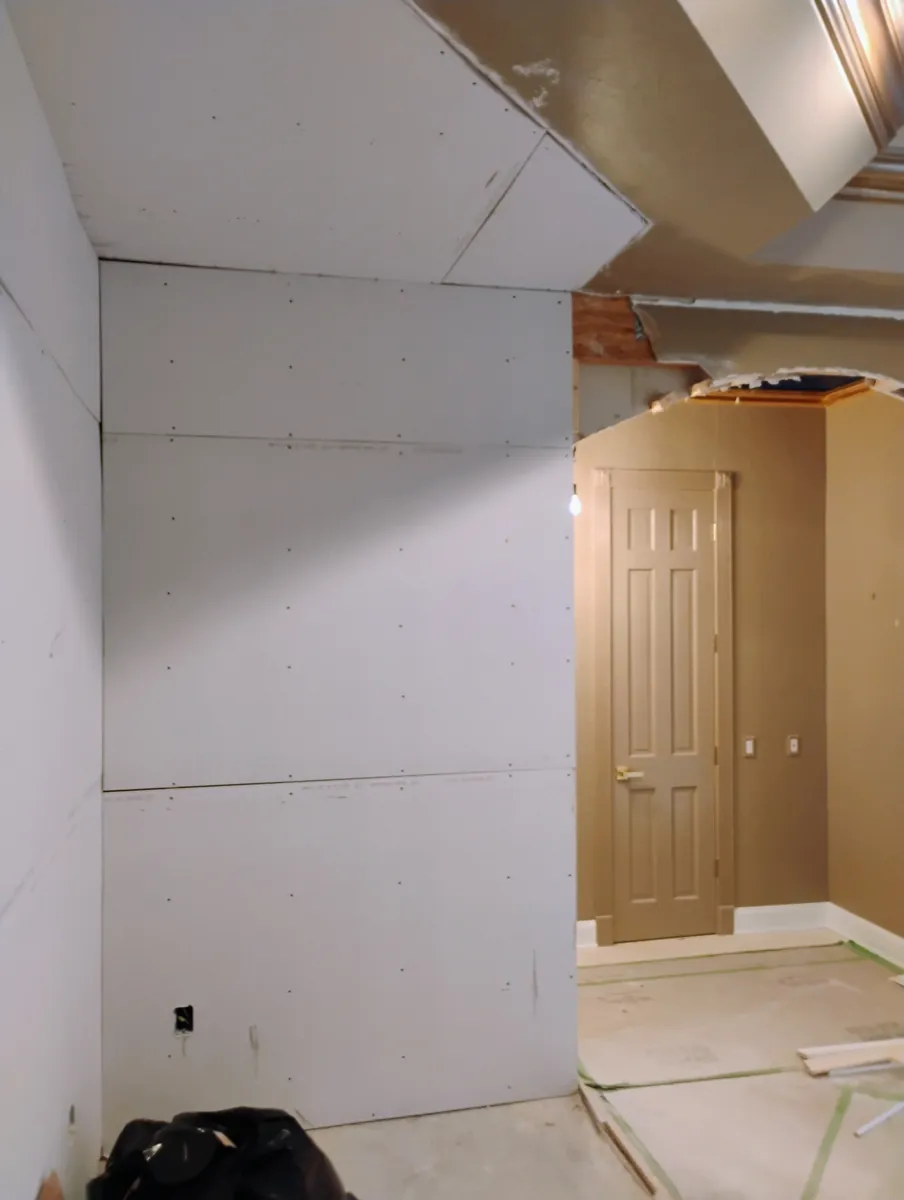
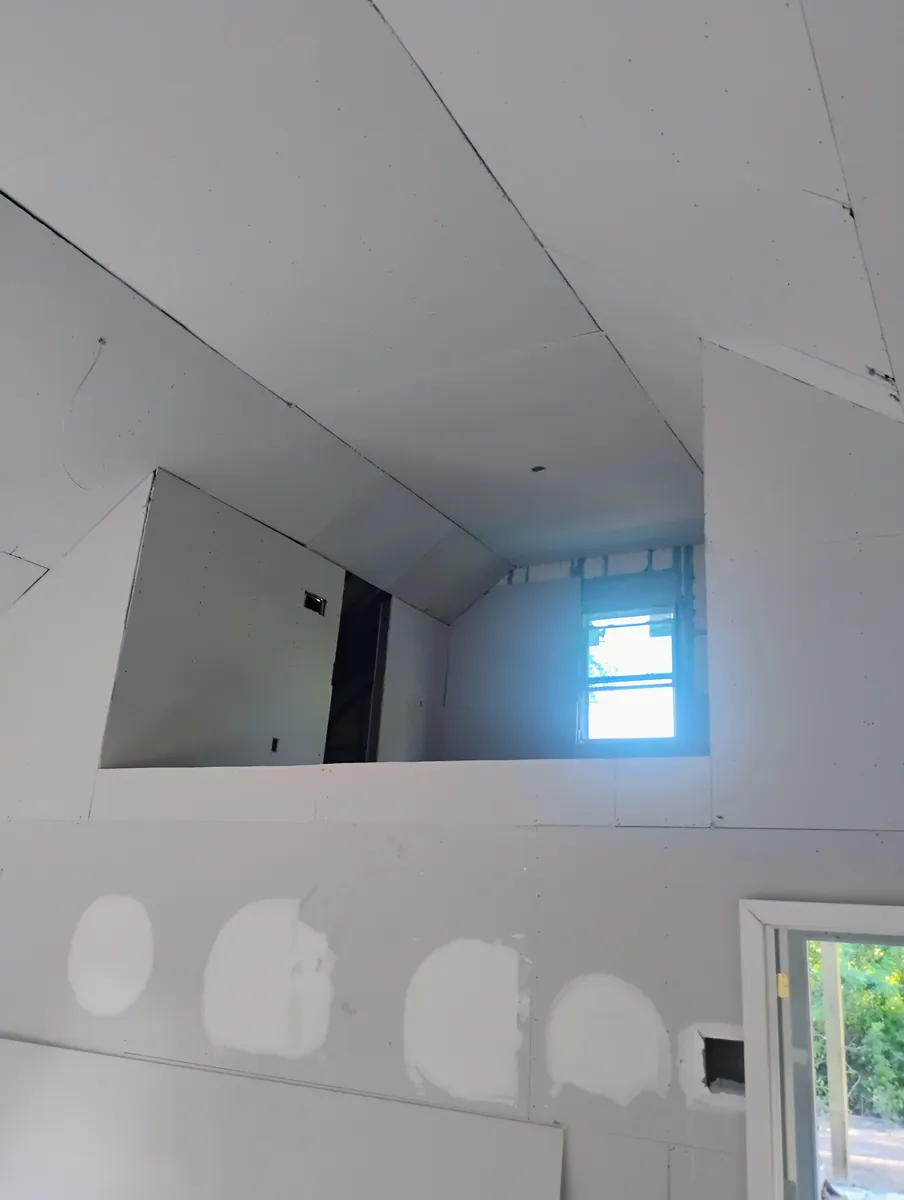
feat(photos): real drywall photos on repair + repair-painting; fix ceiling captions; update prices
Francisco review round 2:
- drywall-repair-sarasota: hero was an interior-painting hallway (wrong) ->
  real drywall repair photo + 3-photo evidence gallery. Added the real logo
  to this page too (folder page was missed by the site-wide logo pass).
- drywall-repair-painting-sarasota: same wrong hero -> real drywall photo +
  3-photo gallery (taped -> primed -> finished, the 'one company' story).
- ceiling-repair: fixed the 3 gallery captions that didn't match the photos
  (were claiming 'finished/flush' on in-progress shots); swapped the raw-wall
  photo for a real vaulted ceiling; honest captions now.
- drywall-finishing: replaced the Level 5 gallery photo with a cleaner
  finished shot (per Francisco) + matching caption.
- drywall-repair prices updated to Francisco's master price list, as ranges
  (site was advertising BELOW his real floor, e.g. 50 patch vs 95 PKG-A).
  Updated the visible table, the FAQ copy, and the JSON-LD in sync.

All photos are Francisco's real job photos from Google Drive, optimized to
webp (13-47 KB). Preview branch; main untouched. Verified in preview: images
load, captions match, logo present, prices render.

diff --git a/drywall-repair-sarasota/index.html b/drywall-repair-sarasota/index.html
@@ -25,7 +25,7 @@
   <meta property="og:url" content="https://presiadohomegroup.com/drywall-repair-sarasota">
   <meta property="og:image" content="https://presiadohomegroup.com/images/interior-painting-sarasota-hallway-hero-1600x900.webp">
   <script type="application/ld+json">{"@context":"https://schema.org","@type":"Service","name":"Drywall Repair Sarasota FL","description":"Professional drywall repair and finishing services for luxury residential homes in Sarasota FL. Level 4 and Level 5 drywall finishing, seamless texture matching, water damage restoration, popcorn ceiling removal, skim coating, and resurfacing. 3-Year Limited Workmanship Warranty.","provider":{"@type":"LocalBusiness","name":"Presiado Home Improvement LLC","telephone":"+19417043464","url":"https://presiadohomegroup.com","address":{"@type":"PostalAddress","streetAddress":"4704 Swift Rd","addressLocality":"Sarasota","addressRegion":"FL","postalCode":"34231","addressCountry":"US"},"aggregateRating":{"@type":"AggregateRating","ratingValue":"4.9","bestRating":"5","worstRating":"1","ratingCount":"18"}},"areaServed":[{"@type":"City","name":"Sarasota"},{"@type":"Place","name":"Longboat Key"},{"@type":"Place","name":"Siesta Key"},{"@type":"Place","name":"Lakewood Ranch"},{"@type":"Place","name":"Palmer Ranch"},{"@type":"Place","name":"Bird Key"}],"hasOfferCatalog":{"@type":"OfferCatalog","name":"Drywall Services","itemListElement":[{"@type":"Offer","itemOffered":{"@type":"Service","name":"Level 5 Drywall Finishing"}},{"@type":"Offer","itemOffered":{"@type":"Service","name":"Water Damage Drywall Restoration"}},{"@type":"Offer","itemOffered":{"@type":"Service","name":"Texture Matching"}},{"@type":"Offer","itemOffered":{"@type":"Service","name":"Popcorn Ceiling Removal"}},{"@type":"Offer","itemOffered":{"@type":"Service","name":"Skim Coating & Resurfacing"}}]}}</script>
-  <script type="application/ld+json">{"@context":"https://schema.org","@type":"FAQPage","mainEntity":[{"@type":"Question","name":"How much does drywall repair cost in Sarasota FL?","acceptedAnswer":{"@type":"Answer","text":"Drywall repair in Sarasota typically ranges from $150-$400 for small patches, $400-$900 for mid-size repairs, and $1,500-$5,000+ for water damage restoration or full room resurfacing. Level 5 finishing for an entire room runs $800-$2,500. We provide a detailed itemized estimate after a free on-site consultation."}},{"@type":"Question","name":"What is Level 5 drywall finishing?","acceptedAnswer":{"@type":"Answer","text":"Level 5 is the highest quality drywall finish — a skim coat of joint compound applied over the entire surface to create a perfectly smooth, uniform wall. It eliminates all texture, tool marks, and surface variations. Required for high-gloss or semi-gloss paint, and standard in luxury homes where wall imperfections would be highly visible."}},{"@type":"Question","name":"Do you repair water damaged drywall in Sarasota?","acceptedAnswer":{"@type":"Answer","text":"Yes. We assess the extent of water damage, remove and replace affected drywall, treat for mold if present, and refinish to match the surrounding surface seamlessly. We coordinate closely with homeowners insurance claims when applicable."}},{"@type":"Question","name":"Can you match my existing wall texture?","acceptedAnswer":{"@type":"Answer","text":"Yes. Texture matching is one of our specialties. We can match orange peel, knockdown, skip trowel, smooth, and most custom textures found in Sarasota homes. We test on a small area first to confirm the match before completing the repair."}},{"@type":"Question","name":"Do you remove popcorn ceilings in Sarasota?","acceptedAnswer":{"@type":"Answer","text":"Yes. We remove popcorn texture and refinish ceilings to a smooth Level 4 or Level 5 finish ready for paint. We test for asbestos before removal on homes built before 1980, as required by Florida regulations."}},{"@type":"Question","name":"What warranty do you offer on drywall repair?","acceptedAnswer":{"@type":"Answer","text":"Every drywall repair project is backed by our 3-Year Limited Workmanship Warranty and a 30-Day Touch-Up Promise. If any defect in finish, texture, or application appears within 3 years, we return and correct it at zero cost, subject to the written terms of your project agreement."}}]}</script>
+  <script type="application/ld+json">{"@context":"https://schema.org","@type":"FAQPage","mainEntity":[{"@type":"Question","name":"How much does drywall repair cost in Sarasota FL?","acceptedAnswer":{"@type":"Answer","text":"Drywall repair in Sarasota typically starts around $450-$750 for holes, patches and cracks, $850-$1,400 for close-up and texture work, and $900-$2,800+ for water-damage or moisture-board restoration. Level 5 skim coat for an entire room runs $1,900-$3,500. We provide a detailed itemized estimate after a free on-site consultation."}},{"@type":"Question","name":"What is Level 5 drywall finishing?","acceptedAnswer":{"@type":"Answer","text":"Level 5 is the highest quality drywall finish — a skim coat of joint compound applied over the entire surface to create a perfectly smooth, uniform wall. It eliminates all texture, tool marks, and surface variations. Required for high-gloss or semi-gloss paint, and standard in luxury homes where wall imperfections would be highly visible."}},{"@type":"Question","name":"Do you repair water damaged drywall in Sarasota?","acceptedAnswer":{"@type":"Answer","text":"Yes. We assess the extent of water damage, remove and replace affected drywall, treat for mold if present, and refinish to match the surrounding surface seamlessly. We coordinate closely with homeowners insurance claims when applicable."}},{"@type":"Question","name":"Can you match my existing wall texture?","acceptedAnswer":{"@type":"Answer","text":"Yes. Texture matching is one of our specialties. We can match orange peel, knockdown, skip trowel, smooth, and most custom textures found in Sarasota homes. We test on a small area first to confirm the match before completing the repair."}},{"@type":"Question","name":"Do you remove popcorn ceilings in Sarasota?","acceptedAnswer":{"@type":"Answer","text":"Yes. We remove popcorn texture and refinish ceilings to a smooth Level 4 or Level 5 finish ready for paint. We test for asbestos before removal on homes built before 1980, as required by Florida regulations."}},{"@type":"Question","name":"What warranty do you offer on drywall repair?","acceptedAnswer":{"@type":"Answer","text":"Every drywall repair project is backed by our 3-Year Limited Workmanship Warranty and a 30-Day Touch-Up Promise. If any defect in finish, texture, or application appears within 3 years, we return and correct it at zero cost, subject to the written terms of your project agreement."}}]}</script>
   <link rel="preconnect" href="https://fonts.googleapis.com">
   <link rel="preconnect" href="https://fonts.gstatic.com" crossorigin>
   <link href="https://fonts.googleapis.com/css2?family=Cormorant+Garamond:wght@400;500;600;700&family=DM+Sans:wght@400;500;700&family=Roboto+Condensed:wght@400;500;700&display=swap" rel="stylesheet">
@@ -180,12 +180,12 @@
     @media(max-width:600px){.form-row-2{grid-template-columns:1fr!important}}
     #sub-btn:hover{background:#D4BC8A!important;transform:translateY(-2px);box-shadow:0 8px 30px rgba(198,167,104,0.3)}
     #sub-btn:disabled{opacity:.6;cursor:not-allowed;transform:none;box-shadow:none}
-  </style>
+  .nav-logo img{height:34px;width:auto;display:block}.nav-logo{padding:0!important}</style>
 </head>
 <body>
   <nav class="nav" id="nav">
     <div class="nav-inner">
-      <a href="/" class="nav-logo">PRESIADO<span>HOME IMPROVEMENT</span></a>
+      <a href="/" class="nav-logo"><img src="/images/presiado-logo-gold.png" alt="Presiado Home Improvement" width="120" height="40"></a>
       <div class="nav-links">
         <a href="/#services">Services</a>
         <a href="/#portfolio">Our Work</a>
@@ -201,7 +201,7 @@
     </div>
   </div>
   <section class="hero" id="hero">
-    <img class="hero-img" src="/images/interior-painting-sarasota-hallway-hero-1600x900.webp" alt="Drywall repair, ceiling patching and texture matching in Sarasota FL" width="1600" height="900" decoding="async">
+    <img class="hero-img" src="/images/drywall-repair-sarasota-hero-1600x900.webp" alt="Drywall repair and finishing on interior walls in a Sarasota FL home" width="1600" height="900" decoding="async">
     <div class="container">
       <div class="hero-content">
         <div class="hero-badge"><div class="dot"></div><span>DRYWALL REPAIR SPECIALISTS &#8212; SARASOTA, FL</span></div>
@@ -221,6 +221,20 @@
     <div class="hero-deco"></div>
   </section>
   <div class="sla-bar"><p><strong>We&#8217;ll follow up to schedule your free estimate</strong> &#8212; free, no-pressure, always included.</p></div>
+
+  <!-- EVIDENCE GALLERY -->
+  <section class="section sec-cream">
+    <div class="container">
+      <div class="sh"><span class="sl">RECENT WORK</span><h2 class="st">Real Drywall Repair in Sarasota Homes</h2><p class="ss">Squared, screwed, finished, and left paint-ready &mdash; the actual work on real jobs, not stock photos.</p></div>
+      <style>.eg-grid{display:grid;grid-template-columns:repeat(3,1fr);gap:18px}.eg-grid figure{margin:0;border-radius:8px;overflow:hidden;border:1px solid rgba(198,167,104,0.2);background:#fff;box-shadow:0 8px 30px rgba(0,0,0,0.06)}.eg-grid img{width:100%;height:300px;object-fit:cover;display:block}.eg-cap{padding:12px 14px;font-size:12.5px;color:#666;line-height:1.5}@media(max-width:760px){.eg-grid{grid-template-columns:1fr}}</style>
+      <div class="eg-grid">
+        <figure><img src="/images/drywall-repair-sarasota-work-2026.webp" alt="Drywall repair in progress on a Sarasota interior wall" loading="lazy" decoding="async"><figcaption class="eg-cap">Repair squared, screwed &amp; ready to finish</figcaption></figure>
+        <figure><img src="/images/drywall-repair-sarasota-moisture-board-2026.webp" alt="Moisture-resistant drywall board installed in a Sarasota bathroom" loading="lazy" decoding="async"><figcaption class="eg-cap">Moisture-resistant board for baths &amp; water-damage areas</figcaption></figure>
+        <figure><img src="/images/drywall-repair-sarasota-finished-2026.webp" alt="Drywall walls finished clean and paint-ready in a Sarasota home" loading="lazy" decoding="async"><figcaption class="eg-cap">Walls brought back to a clean, paint-ready finish</figcaption></figure>
+      </div>
+      <p style="text-align:center;margin-top:24px;font-size:13px;color:#888;">Real Presiado projects in the Sarasota area.</p>
+    </div>
+  </section>
 
   <!-- SERVICES -->
   <section class="section sec-dark">
@@ -277,12 +291,12 @@
     <div class="container">
       <div class="sh"><span class="sl">PRICING GUIDE</span><h2 class="st">Drywall Repair Costs in <em style="color:var(--gold);font-style:normal;">Sarasota, FL</em></h2><p class="ss">Pricing depends on scope, surface condition, and finish level. These ranges give you a starting point.</p></div>
       <div class="price-table reveal">
-        <div class="pr"><span class="sc">Small Patch (up to 6&#8221;)</span><span class="px">$150 &#8211; $350</span></div>
-        <div class="pr"><span class="sc">Mid-Size Repair (6&#8221;&#8211;24&#8221;)</span><span class="px">$350 &#8211; $700</span></div>
-        <div class="pr"><span class="sc">Large Repair / Water Damage</span><span class="px">$700 &#8211; $2,500</span></div>
-        <div class="pr"><span class="sc">Level 5 Finish (per room)</span><span class="px">$800 &#8211; $2,500</span></div>
-        <div class="pr"><span class="sc">Popcorn Ceiling Removal (per room)</span><span class="px">$500 &#8211; $1,500</span></div>
-        <div class="pr"><span class="sc">Full Room Skim Coat &amp; Resurface</span><span class="px">$1,200 &#8211; $3,500</span></div>
+        <div class="pr"><span class="sc">Minor Repair (holes, patches, cracks)</span><span class="px">$450 &#8211; $750</span></div>
+        <div class="pr"><span class="sc">Close-Up + Texture (after other trades)</span><span class="px">$850 &#8211; $1,400</span></div>
+        <div class="pr"><span class="sc">Water Damage / Moisture-Board Restoration</span><span class="px">$900 &#8211; $2,800</span></div>
+        <div class="pr"><span class="sc">Level 5 Skim Coat (per room)</span><span class="px">$1,900 &#8211; $3,500</span></div>
+        <div class="pr"><span class="sc">Popcorn Ceiling Removal (per room)</span><span class="px">$600 &#8211; $1,600</span></div>
+        <div class="pr"><span class="sc">New Drywall Install (Level 4&#8211;5)</span><span class="px">$3.50&#8211;$6 / sq ft</span></div>
       </div>
       <p class="price-note">Prices include all materials, prep, finishing, and our 3-Year Limited Workmanship Warranty. Exact quote after free on-site consultation &#8212; no hidden fees.</p>
     </div>
@@ -352,7 +366,7 @@
     <div class="container">
       <div class="sh"><span class="sl" style="color:var(--gold)">FAQ</span><h2 class="st">Drywall Repair &#8212; Frequently Asked Questions</h2></div>
       <div class="faq-list">
-        <div class="faq-item"><button class="faq-q">How much does drywall repair cost in Sarasota, FL?<span class="faq-ic">+</span></button><div class="faq-a"><p>Drywall repair in Sarasota typically ranges from $150&#8211;$350 for small patches, $350&#8211;$700 for mid-size repairs, and $700&#8211;$2,500+ for water damage or larger areas. Level 5 finishing for an entire room runs $800&#8211;$2,500. We provide a detailed itemized estimate after your free on-site consultation &#8212; no hidden fees.</p></div></div>
+        <div class="faq-item"><button class="faq-q">How much does drywall repair cost in Sarasota, FL?<span class="faq-ic">+</span></button><div class="faq-a"><p>Drywall repair in Sarasota typically starts around $450&#8211;$750 for holes, patches and cracks, $850&#8211;$1,400 for close-up and texture work after other trades, and $900&#8211;$2,800+ for water-damage or moisture-board restoration. Level 5 skim coat for an entire room runs $1,900&#8211;$3,500. We provide a detailed itemized estimate after your free on-site consultation &#8212; no hidden fees.</p></div></div>
         <div class="faq-item"><button class="faq-q">What is Level 5 drywall finishing?<span class="faq-ic">+</span></button><div class="faq-a"><p>Level 5 is the highest quality drywall finish &#8212; a skim coat of joint compound applied over the entire surface to create a perfectly smooth, uniform wall. It eliminates all texture, tool marks, and surface variations. Required for high-gloss or semi-gloss paint, and standard in luxury homes where wall imperfections would be highly visible under raking light.</p></div></div>
         <div class="faq-item"><button class="faq-q">Do you repair water damaged drywall in Sarasota?<span class="faq-ic">+</span></button><div class="faq-a"><p>Yes. We assess the extent of water damage, remove and replace affected drywall, treat for mold if present, and refinish to match the surrounding surface seamlessly. We coordinate closely with homeowners insurance claims when applicable and can provide documentation for adjusters. For drywall damaged specifically by storm events, see our dedicated <a href="/hurricane-storm-damage-repair-sarasota">Post-Storm Drywall &amp; Paint Repair</a> page.</p></div></div>
         <div class="faq-item"><button class="faq-q">Can you match my existing wall texture?<span class="faq-ic">+</span></button><div class="faq-a"><p>Yes &#8212; texture matching is one of our specialties. We can match orange peel, knockdown, skip trowel, smooth, and most custom textures found in Sarasota homes. We test on a small area first to confirm the match before completing the repair so the integration is invisible.</p></div></div>

diff --git a/drywall-repair-painting-sarasota.html b/drywall-repair-painting-sarasota.html
@@ -191,7 +191,7 @@
   <div class="breadcrumb"><div class="container"><div class="bc"><a href="/">Home</a><span class="sep">&#8250;</span><a href="/#services">Services</a><span class="sep">&#8250;</span><span class="cur">Drywall Repair + Painting Sarasota</span></div></div></div>
 
   <section class="hero" id="hero">
-    <img class="hero-img" src="/images/interior-painting-sarasota-hallway-hero-1600x900.webp" alt="Integrated drywall repair and interior painting in Sarasota FL" width="1600" height="900" decoding="async">
+    <img class="hero-img" src="/images/drywall-repair-painting-sarasota-hero-1600x900.webp" alt="Drywall repair and interior painting delivered as one project in Sarasota FL" width="1600" height="900" decoding="async">
     <div class="container">
       <div class="hero-content">
         <div class="hero-badge"><div class="dot"></div><span>SARASOTA &middot; DRYWALL REPAIR + PAINTING &middot; ONE COMPANY, ONE PROPOSAL</span></div>
@@ -211,6 +211,20 @@
       </div>
     </div>
     <div class="hero-deco"></div>
+  </section>
+
+  <!-- EVIDENCE GALLERY -->
+  <section class="section sec-cream">
+    <div class="container">
+      <div class="sh"><span class="sl">RECENT WORK</span><h2 class="st">Drywall + Paint, Done as One Project</h2><p class="ss">One crew carries the wall from board to primer to final coat &mdash; no handoffs, no finger-pointing between trades.</p></div>
+      <style>.eg-grid{display:grid;grid-template-columns:repeat(3,1fr);gap:18px}.eg-grid figure{margin:0;border-radius:8px;overflow:hidden;border:1px solid rgba(198,167,104,0.2);background:#fff;box-shadow:0 8px 30px rgba(0,0,0,0.06)}.eg-grid img{width:100%;height:300px;object-fit:cover;display:block}.eg-cap{padding:12px 14px;font-size:12.5px;color:#666;line-height:1.5}@media(max-width:760px){.eg-grid{grid-template-columns:1fr}}</style>
+      <div class="eg-grid">
+        <figure><img src="/images/drywall-repair-painting-sarasota-taped-2026.webp" alt="Drywall seams taped and mudded before painting in Sarasota" loading="lazy" decoding="async"><figcaption class="eg-cap">Seams taped and set before a single drop of paint</figcaption></figure>
+        <figure><img src="/images/drywall-repair-painting-sarasota-primed-2026.webp" alt="Drywall primed and prepped for painting in a Sarasota home" loading="lazy" decoding="async"><figcaption class="eg-cap">Primed and prepped &mdash; the paint phase planned from the start</figcaption></figure>
+        <figure><img src="/images/drywall-repair-painting-sarasota-doorway-2026.webp" alt="Drywall finished clean through doorways in a Sarasota home" loading="lazy" decoding="async"><figcaption class="eg-cap">Clean drywall through the doorways and transitions</figcaption></figure>
+      </div>
+      <p style="text-align:center;margin-top:24px;font-size:13px;color:#888;">Real Presiado projects in the Sarasota area.</p>
+    </div>
   </section>
 
   <!-- WHY ONE COMPANY -->

diff --git a/ceiling-repair-sarasota.html b/ceiling-repair-sarasota.html
@@ -210,9 +210,9 @@
       <div class="sh"><span class="sl">RECENT WORK</span><h2 class="st">Ceiling Work, on Real Sarasota Projects</h2><p class="ss">From vaulted ceiling drywall to patched and refinished surfaces &mdash; ceilings that read as one continuous plane under raking light.</p></div>
       <style>.eg-grid{display:grid;grid-template-columns:repeat(3,1fr);gap:18px}.eg-grid figure{margin:0;border-radius:8px;overflow:hidden;border:1px solid rgba(198,167,104,0.2);background:#fff;box-shadow:0 8px 30px rgba(0,0,0,0.06)}.eg-grid img{width:100%;height:300px;object-fit:cover;display:block}.eg-cap{padding:12px 14px;font-size:12.5px;color:#666;line-height:1.5}@media(max-width:760px){.eg-grid{grid-template-columns:1fr}}</style>
       <div class="eg-grid">
-        <figure><img src="/images/ceiling-repair-sarasota-vaulted-skylight-2026.webp" alt="Vaulted ceiling in fresh drywall with a skylight opening in Sarasota" loading="lazy" decoding="async"><figcaption class="eg-cap">Vaulted ceiling framed and boarded in drywall</figcaption></figure>
-        <figure><img src="/images/ceiling-repair-sarasota-finished-ceiling-2026.webp" alt="Ceiling patched and refinished flush in a Sarasota home" loading="lazy" decoding="async"><figcaption class="eg-cap">Ceiling patched and refinished flush</figcaption></figure>
-        <figure><img src="/images/ceiling-repair-sarasota-cathedral-hall-2026.webp" alt="Cathedral ceiling drywall detail in a Sarasota hallway" loading="lazy" decoding="async"><figcaption class="eg-cap">Cathedral-ceiling detail &mdash; clean lines, tight seams</figcaption></figure>
+        <figure><img src="/images/ceiling-repair-sarasota-vaulted-skylight-2026.webp" alt="Vaulted ceiling in fresh drywall with a skylight opening in Sarasota" loading="lazy" decoding="async"><figcaption class="eg-cap">Vaulted ceiling rebuilt in fresh drywall</figcaption></figure>
+        <figure><img src="/images/ceiling-repair-sarasota-finished-ceiling-2026.webp" alt="Opened at the source &mdash; we never finish over hidden damage in a Sarasota home" loading="lazy" decoding="async"><figcaption class="eg-cap">Opened at the source &mdash; we never finish over hidden damage</figcaption></figure>
+        <figure><img src="/images/ceiling-repair-sarasota-cathedral-hall-2026.webp" alt="Cathedral ceiling drywall detail in a Sarasota hallway" loading="lazy" decoding="async"><figcaption class="eg-cap">Cathedral ceiling boarded, ready to finish</figcaption></figure>
       </div>
       <p style="text-align:center;margin-top:24px;font-size:13px;color:#888;">Real Presiado projects in the Sarasota area.</p>
     </div>

diff --git a/drywall-finishing-sarasota.html b/drywall-finishing-sarasota.html
@@ -207,7 +207,7 @@
       <div class="eg-grid">
         <figure><img src="/images/drywall-finishing-sarasota-hang-install-2024.webp" alt="Drywall board hung and screwed off in a Sarasota home" loading="lazy" decoding="async"><figcaption class="eg-cap">Board hung square &mdash; the foundation of a flat finish</figcaption></figure>
         <figure><img src="/images/drywall-finishing-sarasota-crew-taping-2024.webp" alt="Presiado crew taping and mudding drywall seams in Sarasota" loading="lazy" decoding="async"><figcaption class="eg-cap">Seams taped &amp; mudded by our own crew</figcaption></figure>
-        <figure><img src="/images/drywall-finishing-sarasota-level5-finish-2026.webp" alt="Smooth Level 5 drywall finish ready for a clean paint coat in a Sarasota home" loading="lazy" decoding="async"><figcaption class="eg-cap">Primed to Level 5 &mdash; ready for a clean paint finish</figcaption></figure>
+        <figure><img src="/images/drywall-finishing-sarasota-level5-finish-2026.webp" alt="Smooth Level 5 drywall finish ready for a clean paint coat in a Sarasota home" loading="lazy" decoding="async"><figcaption class="eg-cap">Finished smooth to Level 5 &mdash; ready for a clean paint finish</figcaption></figure>
       </div>
       <p style="text-align:center;margin-top:24px;font-size:13px;color:#888;">Real Presiado projects in the Sarasota area.</p>
     </div>
